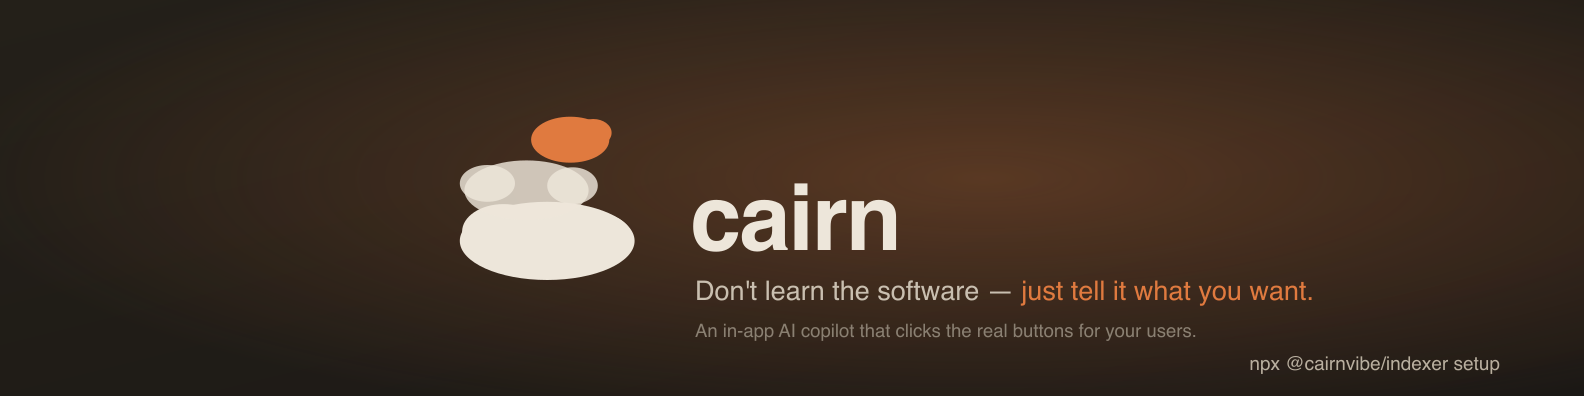
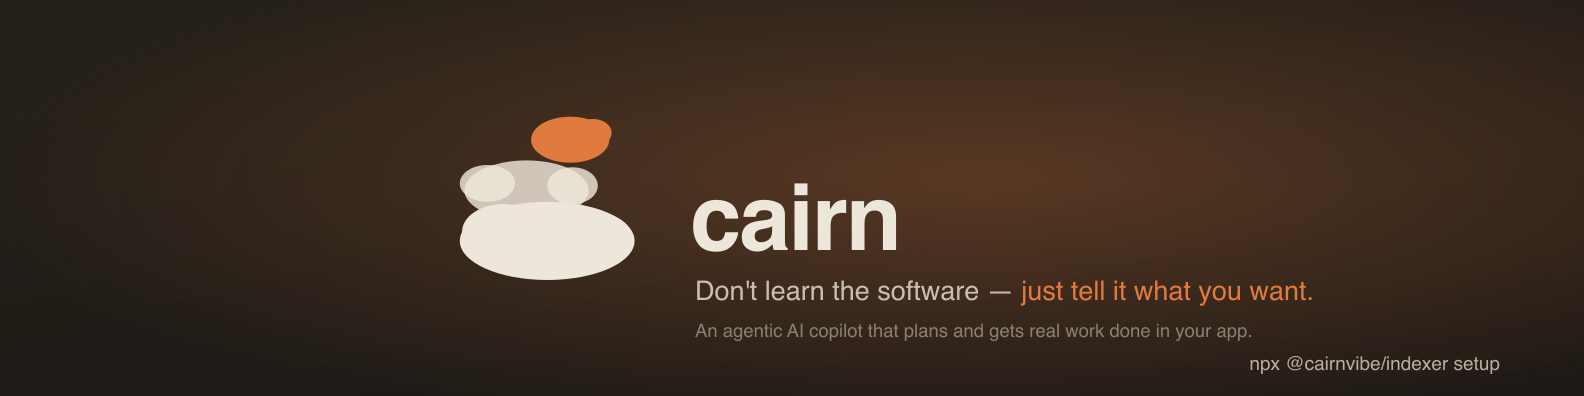
Fix positioning: agentic reasoning, not just clicking
"Clicks the buttons" (README hero, LinkedIn banner, GitHub
description) undersold the Planner/Critic/Executor loop as simple
click-automation. Clicking/filling/navigating/voice are how it
executes a goal, not the headline claim — the actual differentiator
is planning and completing multi-step tasks, verified at every step.

Changed region(s): [[0.4331, 0.8182, 0.8043, 0.8788]]

diff --git a/README.md b/README.md
@@ -31,7 +31,9 @@ would with a mouse. Say "build me a flow that emails me on a new lead,"
 and it happens in front of you, in a tool you've never opened before.
 
 It's not a chatbot bolted onto the side that tells you what to click. It
-clicks.
+plans the steps, checks its own work, and gets the whole thing done —
+clicking, filling, navigating, or talking, whatever the goal actually
+needs.
 
 - **For your customers** — they don't learn your product, they describe
   what they want and watch it happen.
